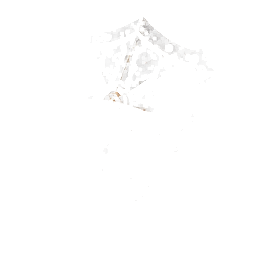
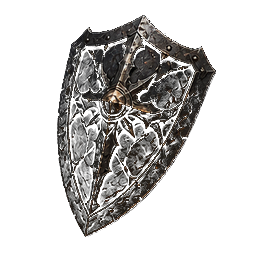
[Codex] fix: 修正武器圖示透明度

diff --git a/docs/AI_TASKS.md b/docs/AI_TASKS.md
@@ -89,6 +89,28 @@ P5 之後的檔案所有權慣例（沿用即可，非硬性）：
 
 # 2. Claude Code 任務
 
+## 2.-14 修正武器圖示去背過度導致本體變黑（2026-08-01）
+
+狀態：已完成，等待使用者合併
+
+任務分類：UI 素材 Bug 修正／武器圖示透明度
+
+任務內容：修正前次去背將接近黑色的武器本體與陰影誤判為背景的問題，改以圖片邊緣相連的黑色區域作為背景遮罩，保留武器內部暗色材質與細節。
+
+負責 AI：Codex
+
+允許修改：`docs/AI_TASKS.md`、`images/icon_weapon_*.png`、`tests/equipment-weapon-transparency.test.cjs`
+
+禁止修改：其他 AI 進行中的檔案、Worker 協議、存檔格式與遊戲數值。
+
+前置依賴：12 個武器圖示已完成透明化；使用者已回報畫面異常並授權修正。
+
+測試要求／結果：武器透明素材定向測試 3/3 通過；完整測試 791/791 通過；建置通過（205 個檔案）。12 個圖示均已以邊緣連通背景遮罩重新輸出。
+
+完成條件：武器本體深色區域保持可見，只有圖片邊緣相連的黑色背景透明化，裝備欄不再整團變黑。
+
+後續接手者：使用者確認畫面後合併至整合分支。
+
 ## 2.-13 裝備成功後顯示裝備欄白色選取外框（2026-08-01）
 
 狀態：已完成，等待使用者合併
